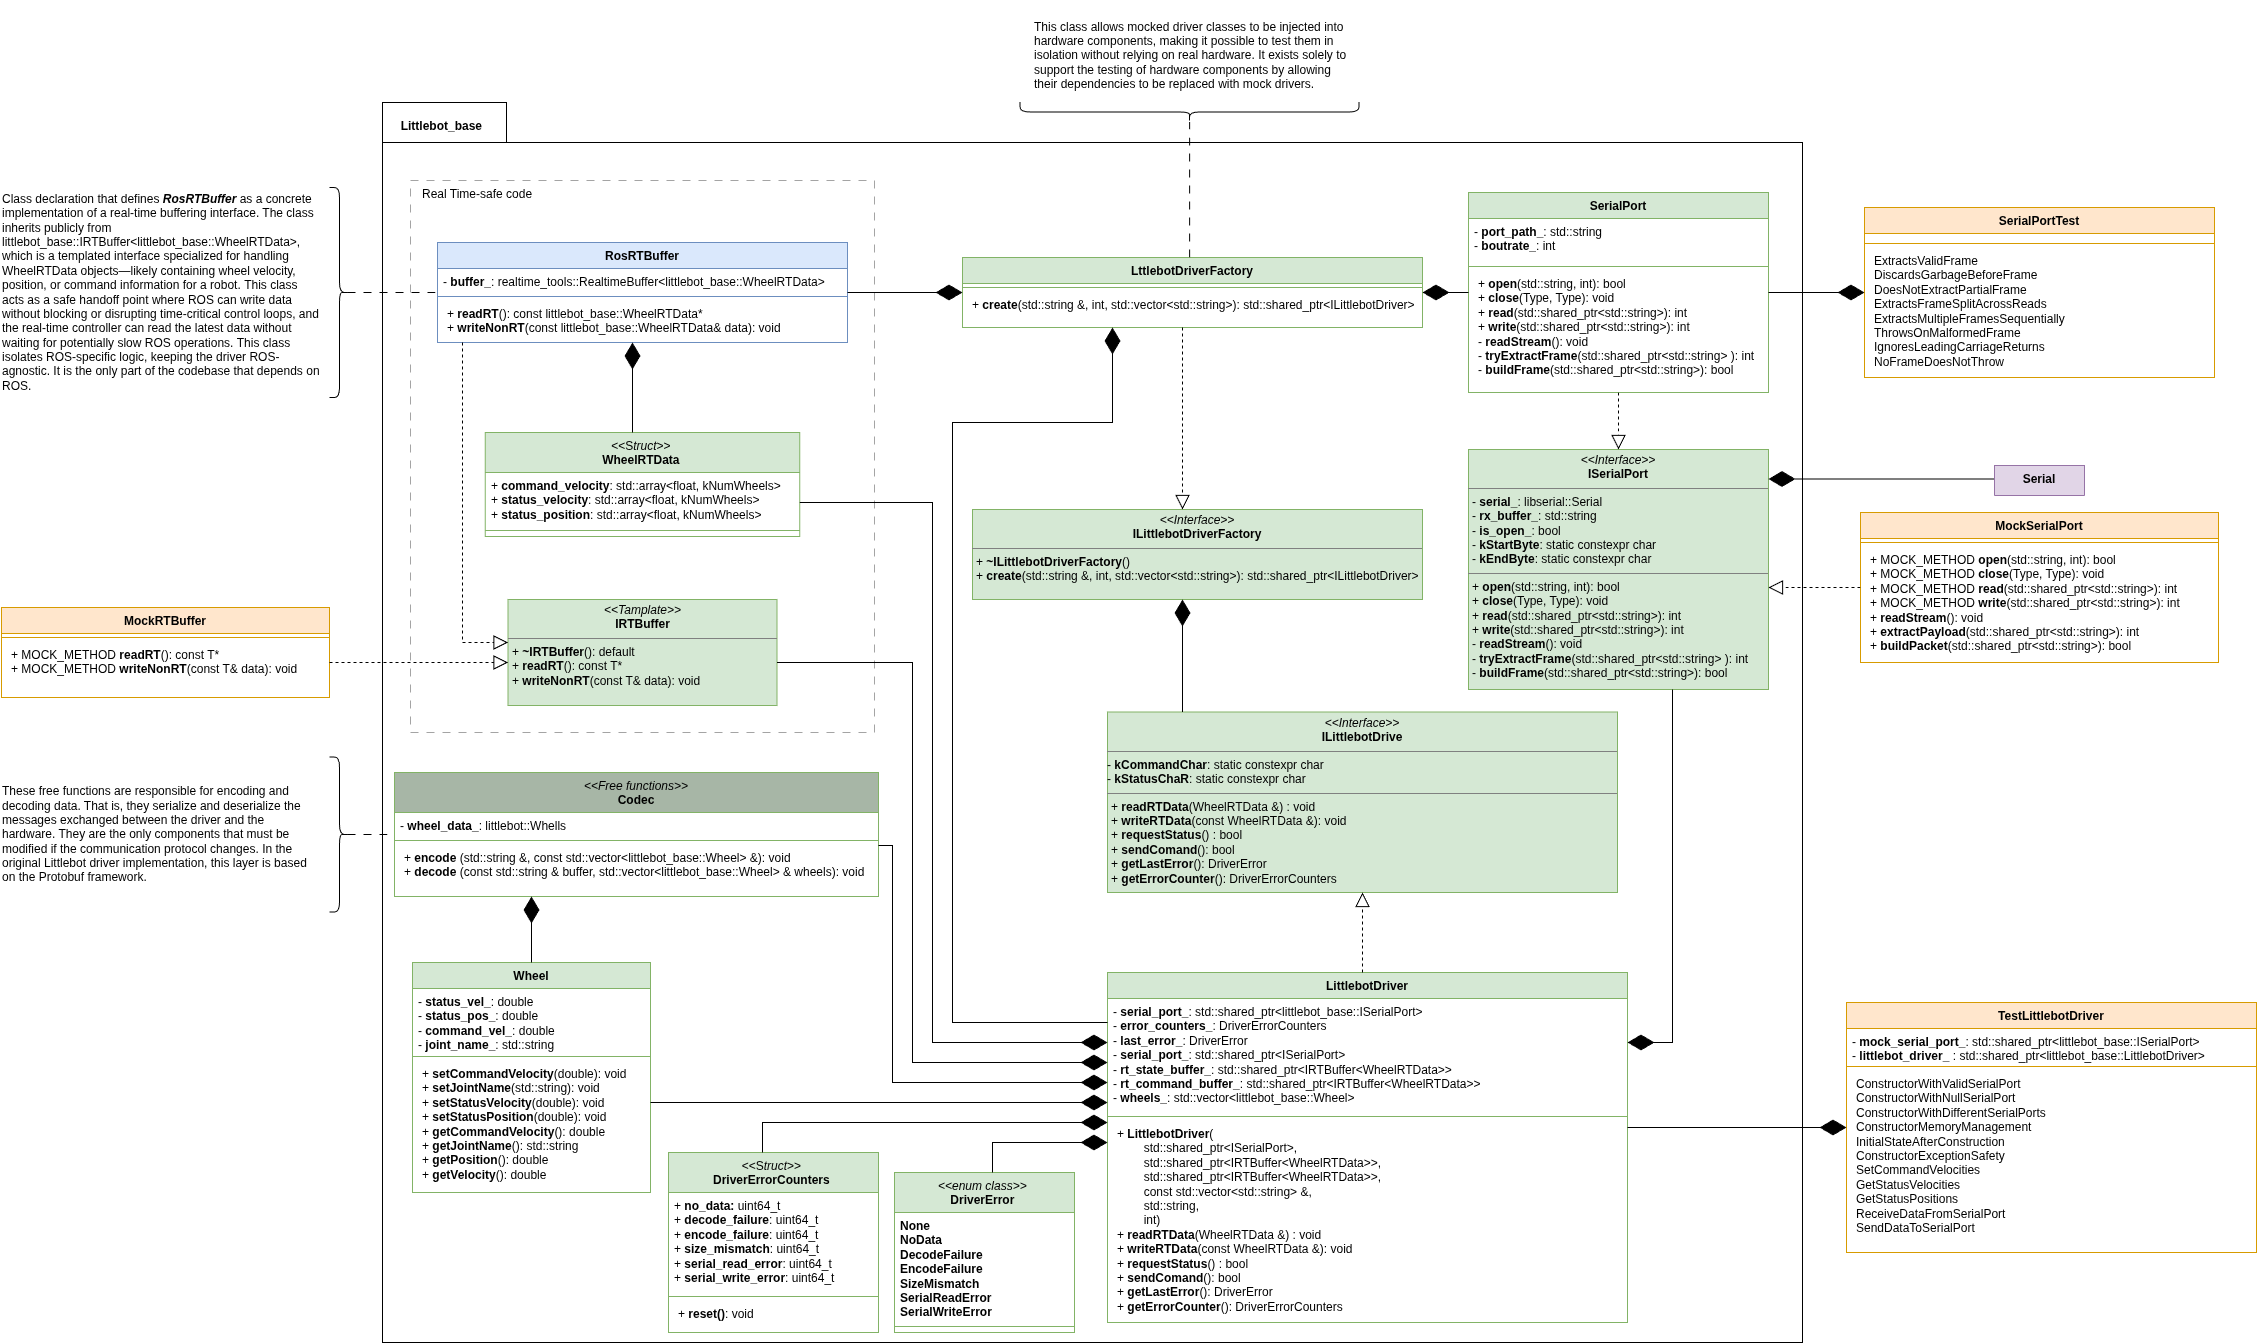
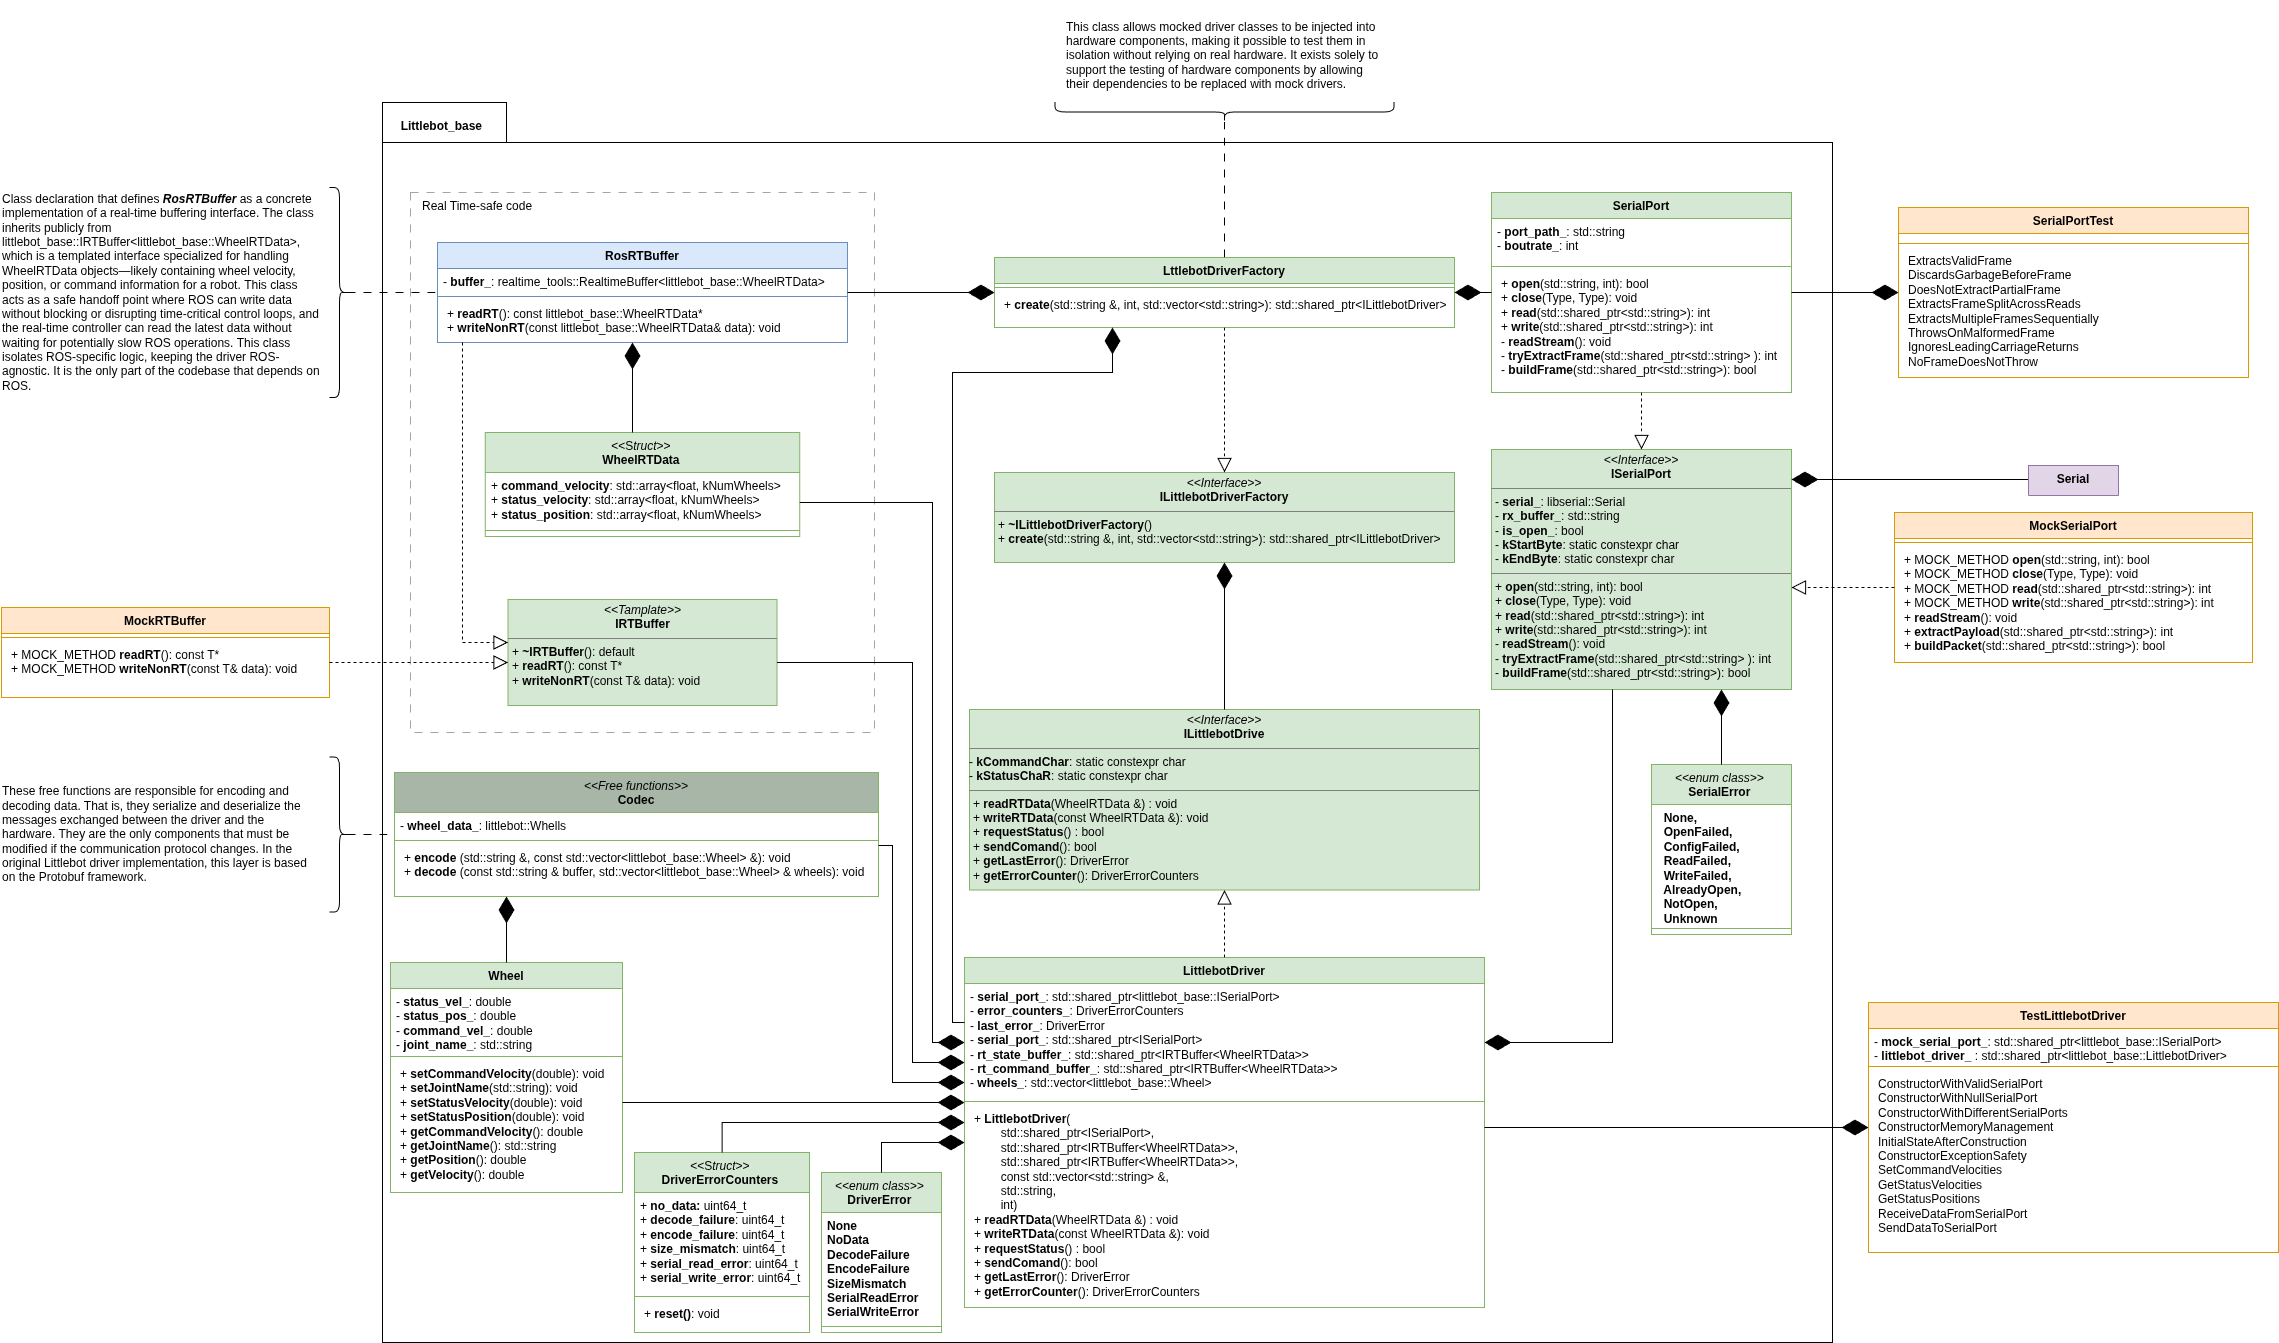
♻ refactor(serial_port): Create new enu class to naming errors, update method descriptions comments

diff --git a/littlebot_base/include/littlebot_base/i_serial_port.hpp b/littlebot_base/include/littlebot_base/i_serial_port.hpp
@@ -30,6 +30,18 @@
 namespace littlebot_base
 {
 
+enum class SerialError
+{
+  None,
+  OpenFailed,
+  ConfigFailed,
+  ReadFailed,
+  WriteFailed,
+  AlreadyOpen,
+  NotOpen,
+  Unknown
+};
+
 class ISerialPort
 {
 public:
@@ -40,24 +52,36 @@ public:
   virtual ~ISerialPort() = default;
 
   /**
-   * @brief Open the serial port (uses default or stored parameters)
+   * @brief Open the serial port
+   *
+   * @param port Serial port device path (e.g., "/dev/ttyUSB0")
+   * @param baudrate Baud rate for the serial communication
+   * @return SerialError indicating success or type of failure
    */
-  virtual bool open(std::string port, int baudrate) = 0;
+  virtual SerialError open(std::string port, int baudrate) noexcept = 0;
 
   /**
    * @brief Close the serial port
+   *
+   * @return SerialError indicating success or type of failure
    */
-  virtual void close() = 0;
+  virtual SerialError close() noexcept = 0;
 
   /**
    * @brief Read Packet from the serial port
+   *
+   * @param payload Vector to store the read packet data
+   * @return Number of bytes read
    */
-  virtual int read(std::vector<uint8_t> & payload) = 0;
+  virtual int read(std::vector<uint8_t> & payload) noexcept = 0;
 
   /**
    * @brief Write Packet to the serial port
+   *
+   * @param payload Vector containing the packet data to write
+   * @return Number of bytes written
    */
-  virtual int write(const std::vector<uint8_t> & payload) = 0;
+  virtual int write(const std::vector<uint8_t> & payload) noexcept = 0;
 
   /**
    * @brief Check if the serial port is open
@@ -85,23 +109,26 @@ protected:
   /**
    * @brief Read data stream from the serial port
    */
-  virtual void readStream() = 0;
+  virtual void readStream() noexcept = 0;
 
   /**
    * @brief Get data from the received packet
    *
    * @param buffer Shared pointer to string buffer to store received data
+   * @return true if a complete frame was extracted
+   * @return false if no complete frame was available
    */
-  virtual bool tryExtractFrame(std::vector<uint8_t> & payload) = 0;
+  virtual bool tryExtractFrame(std::vector<uint8_t> & payload) noexcept = 0;
 
   /**
    * @brief Build packet to be sent through serial port
    *
-   * @param buffer Shared pointer to string buffer to store data to be sent
+   * @param payload Vector containing the packet data to send
+   * @param frame String to store the built packet
    */
   virtual void buildFrame(
     const std::vector<uint8_t> & payload,
-    std::string & frame) = 0;
+    std::string & frame) noexcept = 0;
 
   /**
    * @brief Buffer to store received data
@@ -114,12 +141,12 @@ protected:
   libserial::Serial serial_;
 
   /**
-   * @brief Caracter to start the message
+   * @brief Character to start the message
    */
   static constexpr char kStartByte{'['};
 
   /**
-   * @brief Caracter to end the message
+   * @brief Character to end the message
    */
   static constexpr char kEndByte{']'};
 

diff --git a/littlebot_base/include/littlebot_base/serial_port.hpp b/littlebot_base/include/littlebot_base/serial_port.hpp
@@ -29,24 +29,40 @@ class SerialPort : public ISerialPort
 {
 public:
   /**
-   * @brief Open the serial port (uses stored parameters)
+   * @brief Open the serial port
+   *
+   * \inheritdoc
+   *
+   * Override the virtual method from ISerialPort
    */
-  bool open(std::string port, int baudrate) override;
+  SerialError  open(std::string port, int baudrate) noexcept override;
 
   /**
    * @brief Close the serial port
+   *
+   * \inheritdoc
+   *
+   * Override the virtual method from ISerialPort
    */
-  void close() override;
+  SerialError close() noexcept override;
 
   /**
    * @brief Read packet data from the serial port
+   *
+   * \inheritdoc
+   *
+   * Override the virtual method from ISerialPort
    */
-  int read(std::vector<uint8_t> & payload) override;
+  int read(std::vector<uint8_t> & payload) noexcept override;
 
   /**
    * @brief Write packet data to the serial port
+   *
+   * \inheritdoc
+   *
+   * Override the virtual method from ISerialPort
    */
-  int write(const std::vector<uint8_t> & payload) override;
+  int write(const std::vector<uint8_t> & payload) noexcept override;
 
   #ifdef UNIT_TEST
   void injectRxData(const std::string & data)
@@ -59,14 +75,14 @@ private:
   /**
    * @brief Read data stream from the serial port
    */
-  void readStream() override;
+  void readStream() noexcept override;
 
   /**
    * @brief Get data from the received packet
    *
    * @param buffer Shared pointer to string buffer to store received data
    */
-  bool tryExtractFrame(std::vector<uint8_t> & payload) override;
+  bool tryExtractFrame(std::vector<uint8_t> & payload) noexcept override;
 
   /**
    * @brief Build packet to be sent through serial port
@@ -75,7 +91,7 @@ private:
    */
   void buildFrame(
     const std::vector<uint8_t> & payload,
-    std::string & frame) override;
+    std::string & frame) noexcept override;
 
   /**
    * @brief Serial port device path (e.g., "/dev/ttyUSB0")

diff --git a/littlebot_base/src/serial_port.cpp b/littlebot_base/src/serial_port.cpp
@@ -19,22 +19,23 @@
 namespace littlebot_base
 {
 
-bool SerialPort::open(std::string port, int baudrate)
+SerialError SerialPort::open(std::string port, int baudrate) noexcept
 {
   // TODO(NestorDP): Add error handling
   serial_.open(port);
   serial_.setBaudRate(baudrate);
   is_open_ = true;
-  return true;
+  return SerialError::None;
 }
 
-void SerialPort::close()
+SerialError SerialPort::close() noexcept
 {
   serial_.close();
   is_open_ = false;
+  return SerialError::None;
 }
 
-int SerialPort::read(std::vector<uint8_t> & payload)
+int SerialPort::read(std::vector<uint8_t> & payload) noexcept
 {
   if (is_open_) {
     readStream();
@@ -47,7 +48,7 @@ int SerialPort::read(std::vector<uint8_t> & payload)
   return 0;  // no complete frame yet
 }
 
-int SerialPort::write(const std::vector<uint8_t> & payload)
+int SerialPort::write(const std::vector<uint8_t> & payload) noexcept
 {
   auto frame = std::make_shared<std::string>();
   buildFrame(payload, *frame);
@@ -59,7 +60,7 @@ int SerialPort::write(const std::vector<uint8_t> & payload)
   return static_cast<int>(frame->size());
 }
 
-void SerialPort::readStream()
+void SerialPort::readStream() noexcept
 {
   auto tmp_buffer = std::make_shared<std::string>();
   size_t n = serial_.read(tmp_buffer, kMaxReadChunk);
@@ -71,7 +72,7 @@ void SerialPort::readStream()
 
 void SerialPort::buildFrame(
   const std::vector<uint8_t> & payload,
-  std::string & frame)
+  std::string & frame) noexcept
 {
   frame.clear();
   frame.reserve(payload.size() + 3);
@@ -82,7 +83,7 @@ void SerialPort::buildFrame(
   // frame.push_back('\n');
 }
 
-bool SerialPort::tryExtractFrame(std::vector<uint8_t> & payload)
+bool SerialPort::tryExtractFrame(std::vector<uint8_t> & payload) noexcept
 {
   // Safety: prevent unbounded growth
   if (rx_buffer_.size() > kMaxReadChunk) {

diff --git a/littlebot_base/test/mocks/mock_serial_port.hpp b/littlebot_base/test/mocks/mock_serial_port.hpp
@@ -33,15 +33,16 @@ public:
   MockSerialPort() {}
   ~MockSerialPort() override = default;
 
-  MOCK_METHOD(bool, open, (std::string port, int baudrate), (override));
-  MOCK_METHOD(void, close, (), (override));
-  MOCK_METHOD(int, write, (const std::vector<uint8_t> &), (override));
-  MOCK_METHOD(int, read, (std::vector<uint8_t> &), (override));
+  MOCK_METHOD(littlebot_base::SerialError, open, (std::string port, int baudrate),
+    (override, noexcept));
+  MOCK_METHOD(littlebot_base::SerialError, close, (), (override, noexcept));
+  MOCK_METHOD(int, write, (const std::vector<uint8_t> &), (override, noexcept));
+  MOCK_METHOD(int, read, (std::vector<uint8_t> &), (override, noexcept));
 
   // Provide default implementations for pure virtual methods
-  void readStream() override {}
-  bool tryExtractFrame([[maybe_unused]] std::vector<uint8_t> & payload) override
+  void readStream() noexcept override {}
+  bool tryExtractFrame([[maybe_unused]] std::vector<uint8_t> & payload) noexcept override
   {return true;}
-  void buildFrame(const std::vector<uint8_t> & payload, std::string & frame) override
+  void buildFrame(const std::vector<uint8_t> & payload, std::string & frame) noexcept override
   {frame = std::string(payload.begin(), payload.end());}
 };

diff --git a/littlebot_base/test/test_littlebot_driver.cpp b/littlebot_base/test/test_littlebot_driver.cpp
@@ -45,7 +45,7 @@ protected:
 
     // Set default behavior for open to return true
     ON_CALL(*serial_, open(testing::_, testing::_))
-    .WillByDefault(testing::Return(true));
+    .WillByDefault(testing::Return(littlebot_base::SerialError::None));
 
     driver_ = std::make_unique<littlebot_base::LittlebotDriver>(
       serial_, state_buffer_, command_buffer_, joint_names_, "/dev/TEST_PORT", 115200);

diff --git a/littlebot_base/src/littlebot_driver.cpp b/littlebot_base/src/littlebot_driver.cpp
@@ -38,7 +38,7 @@ LittlebotDriver::LittlebotDriver(
     wheels_.emplace_back(name);
   }
 
-  !serial_port_->open(port_, baudrate_);
+  serial_port_->open(port_, baudrate_);
 }
 
 void LittlebotDriver::readRTData(WheelRTData & state) const noexcept
